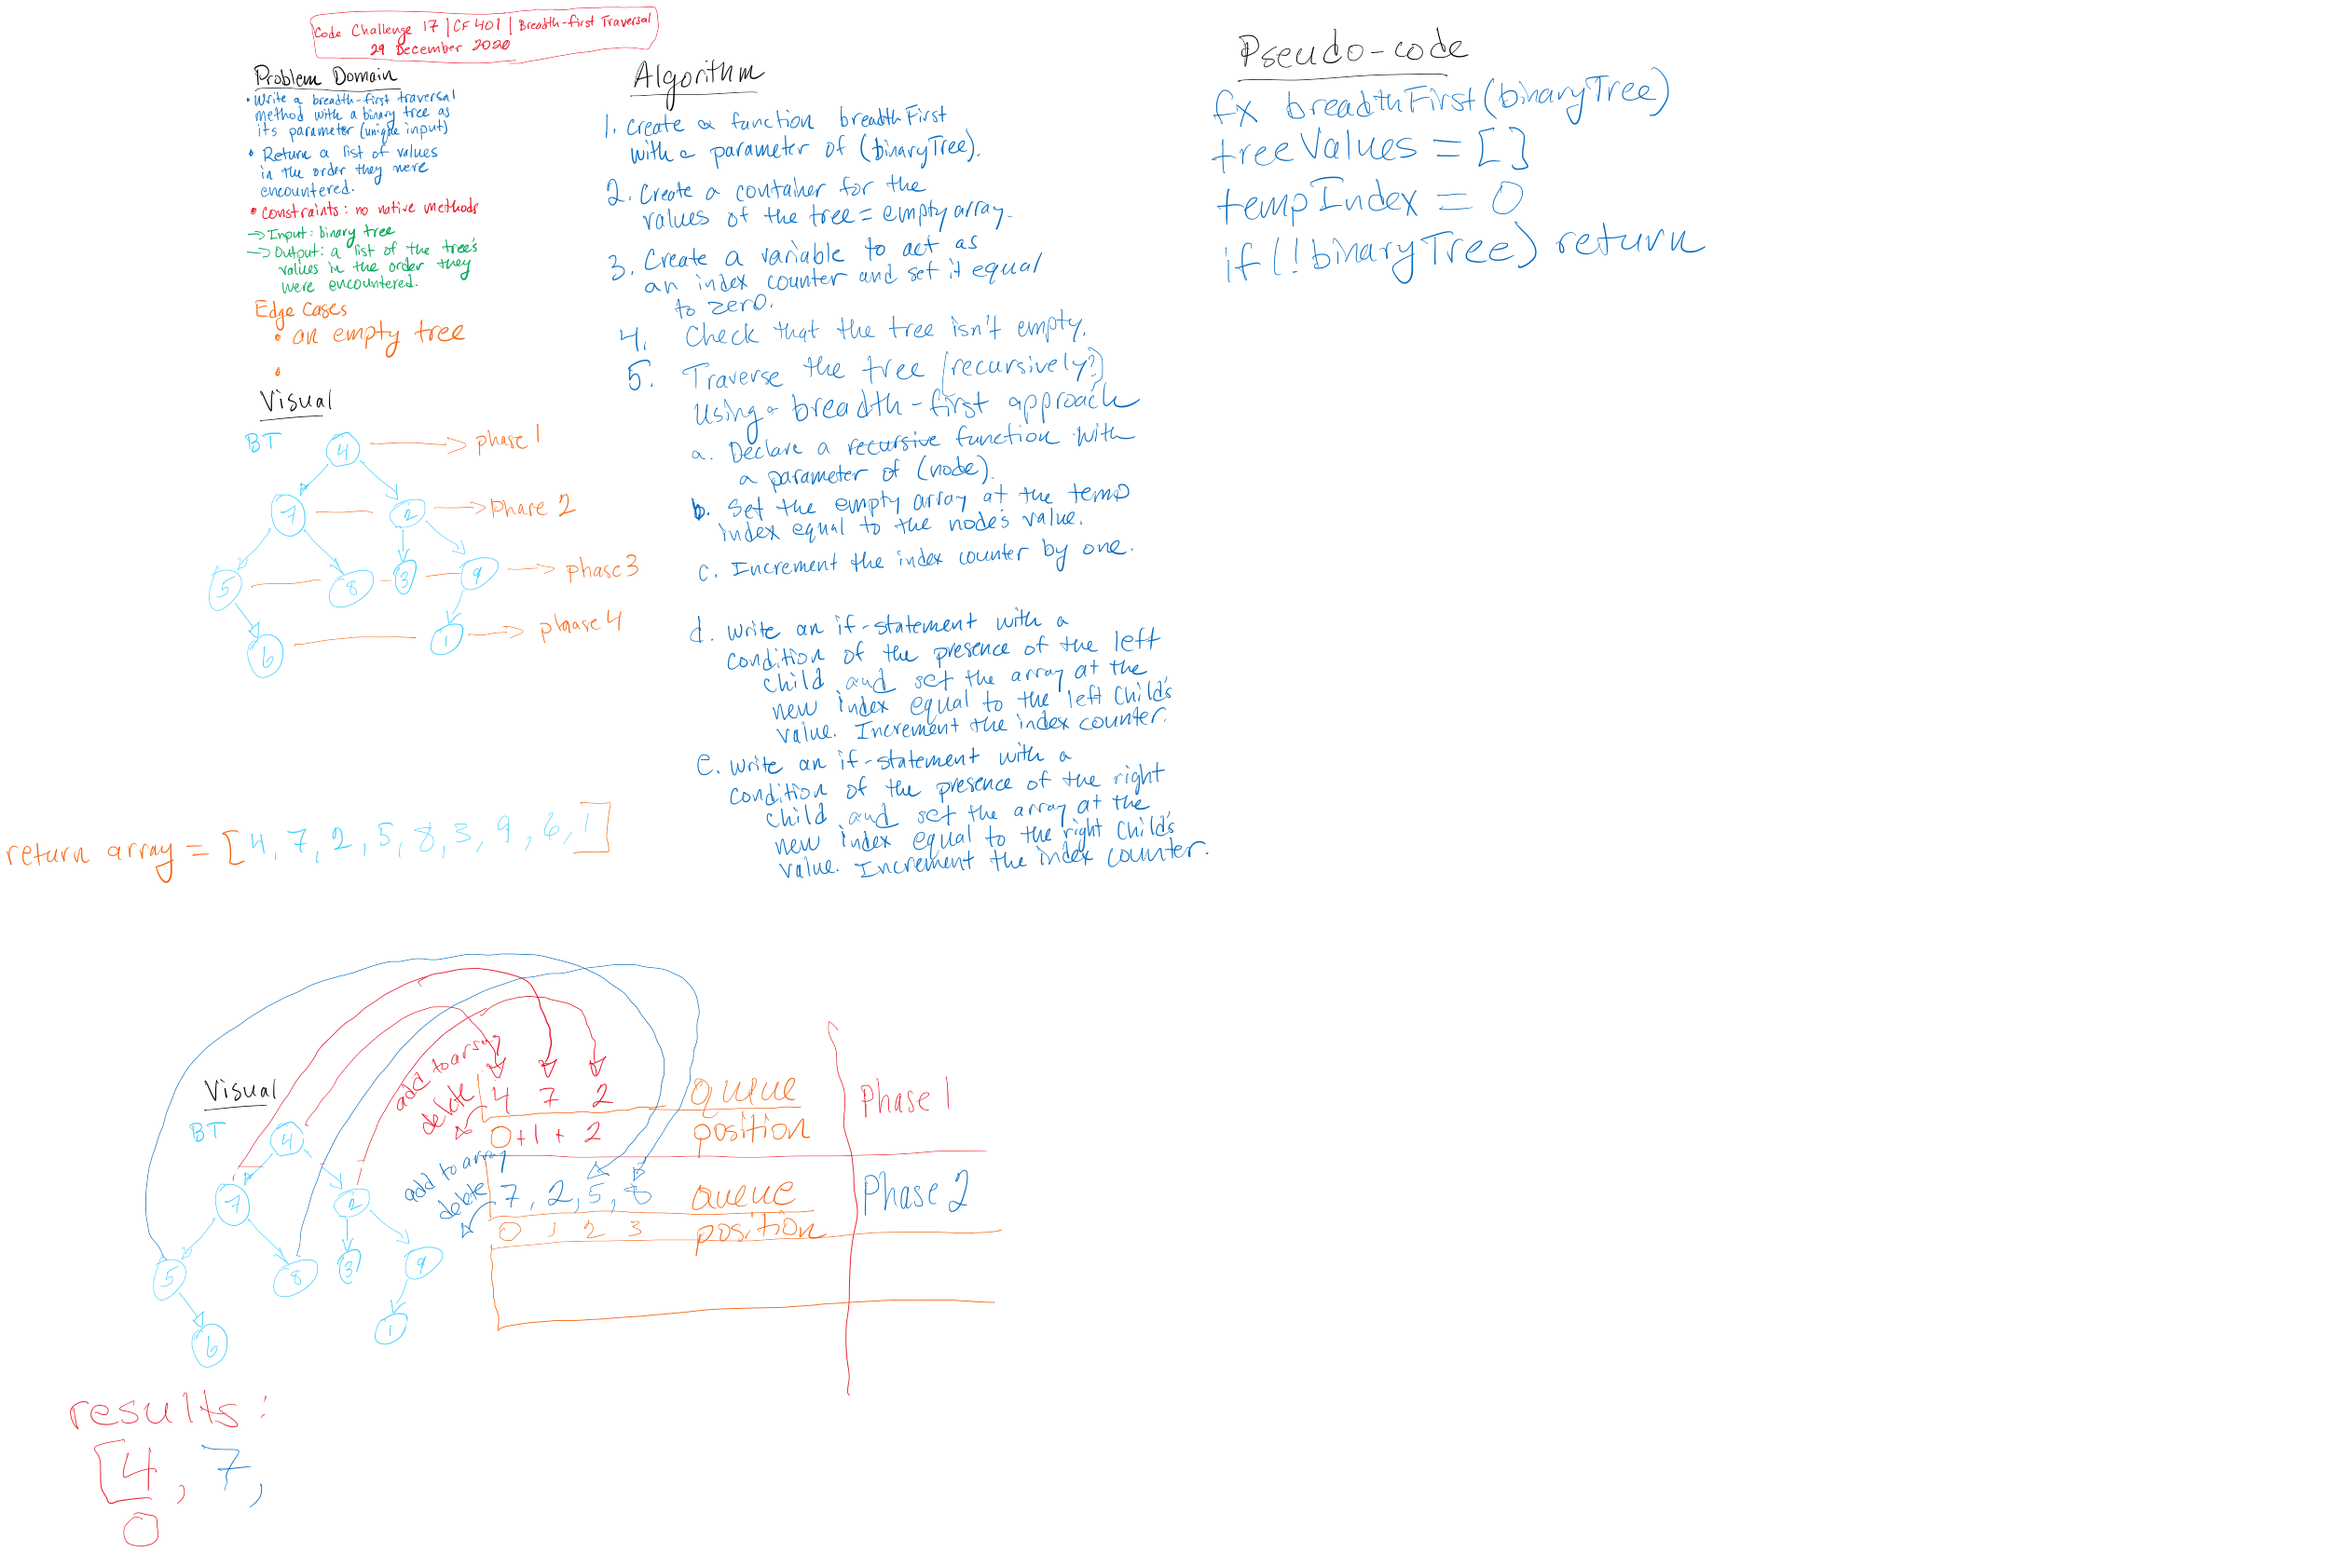
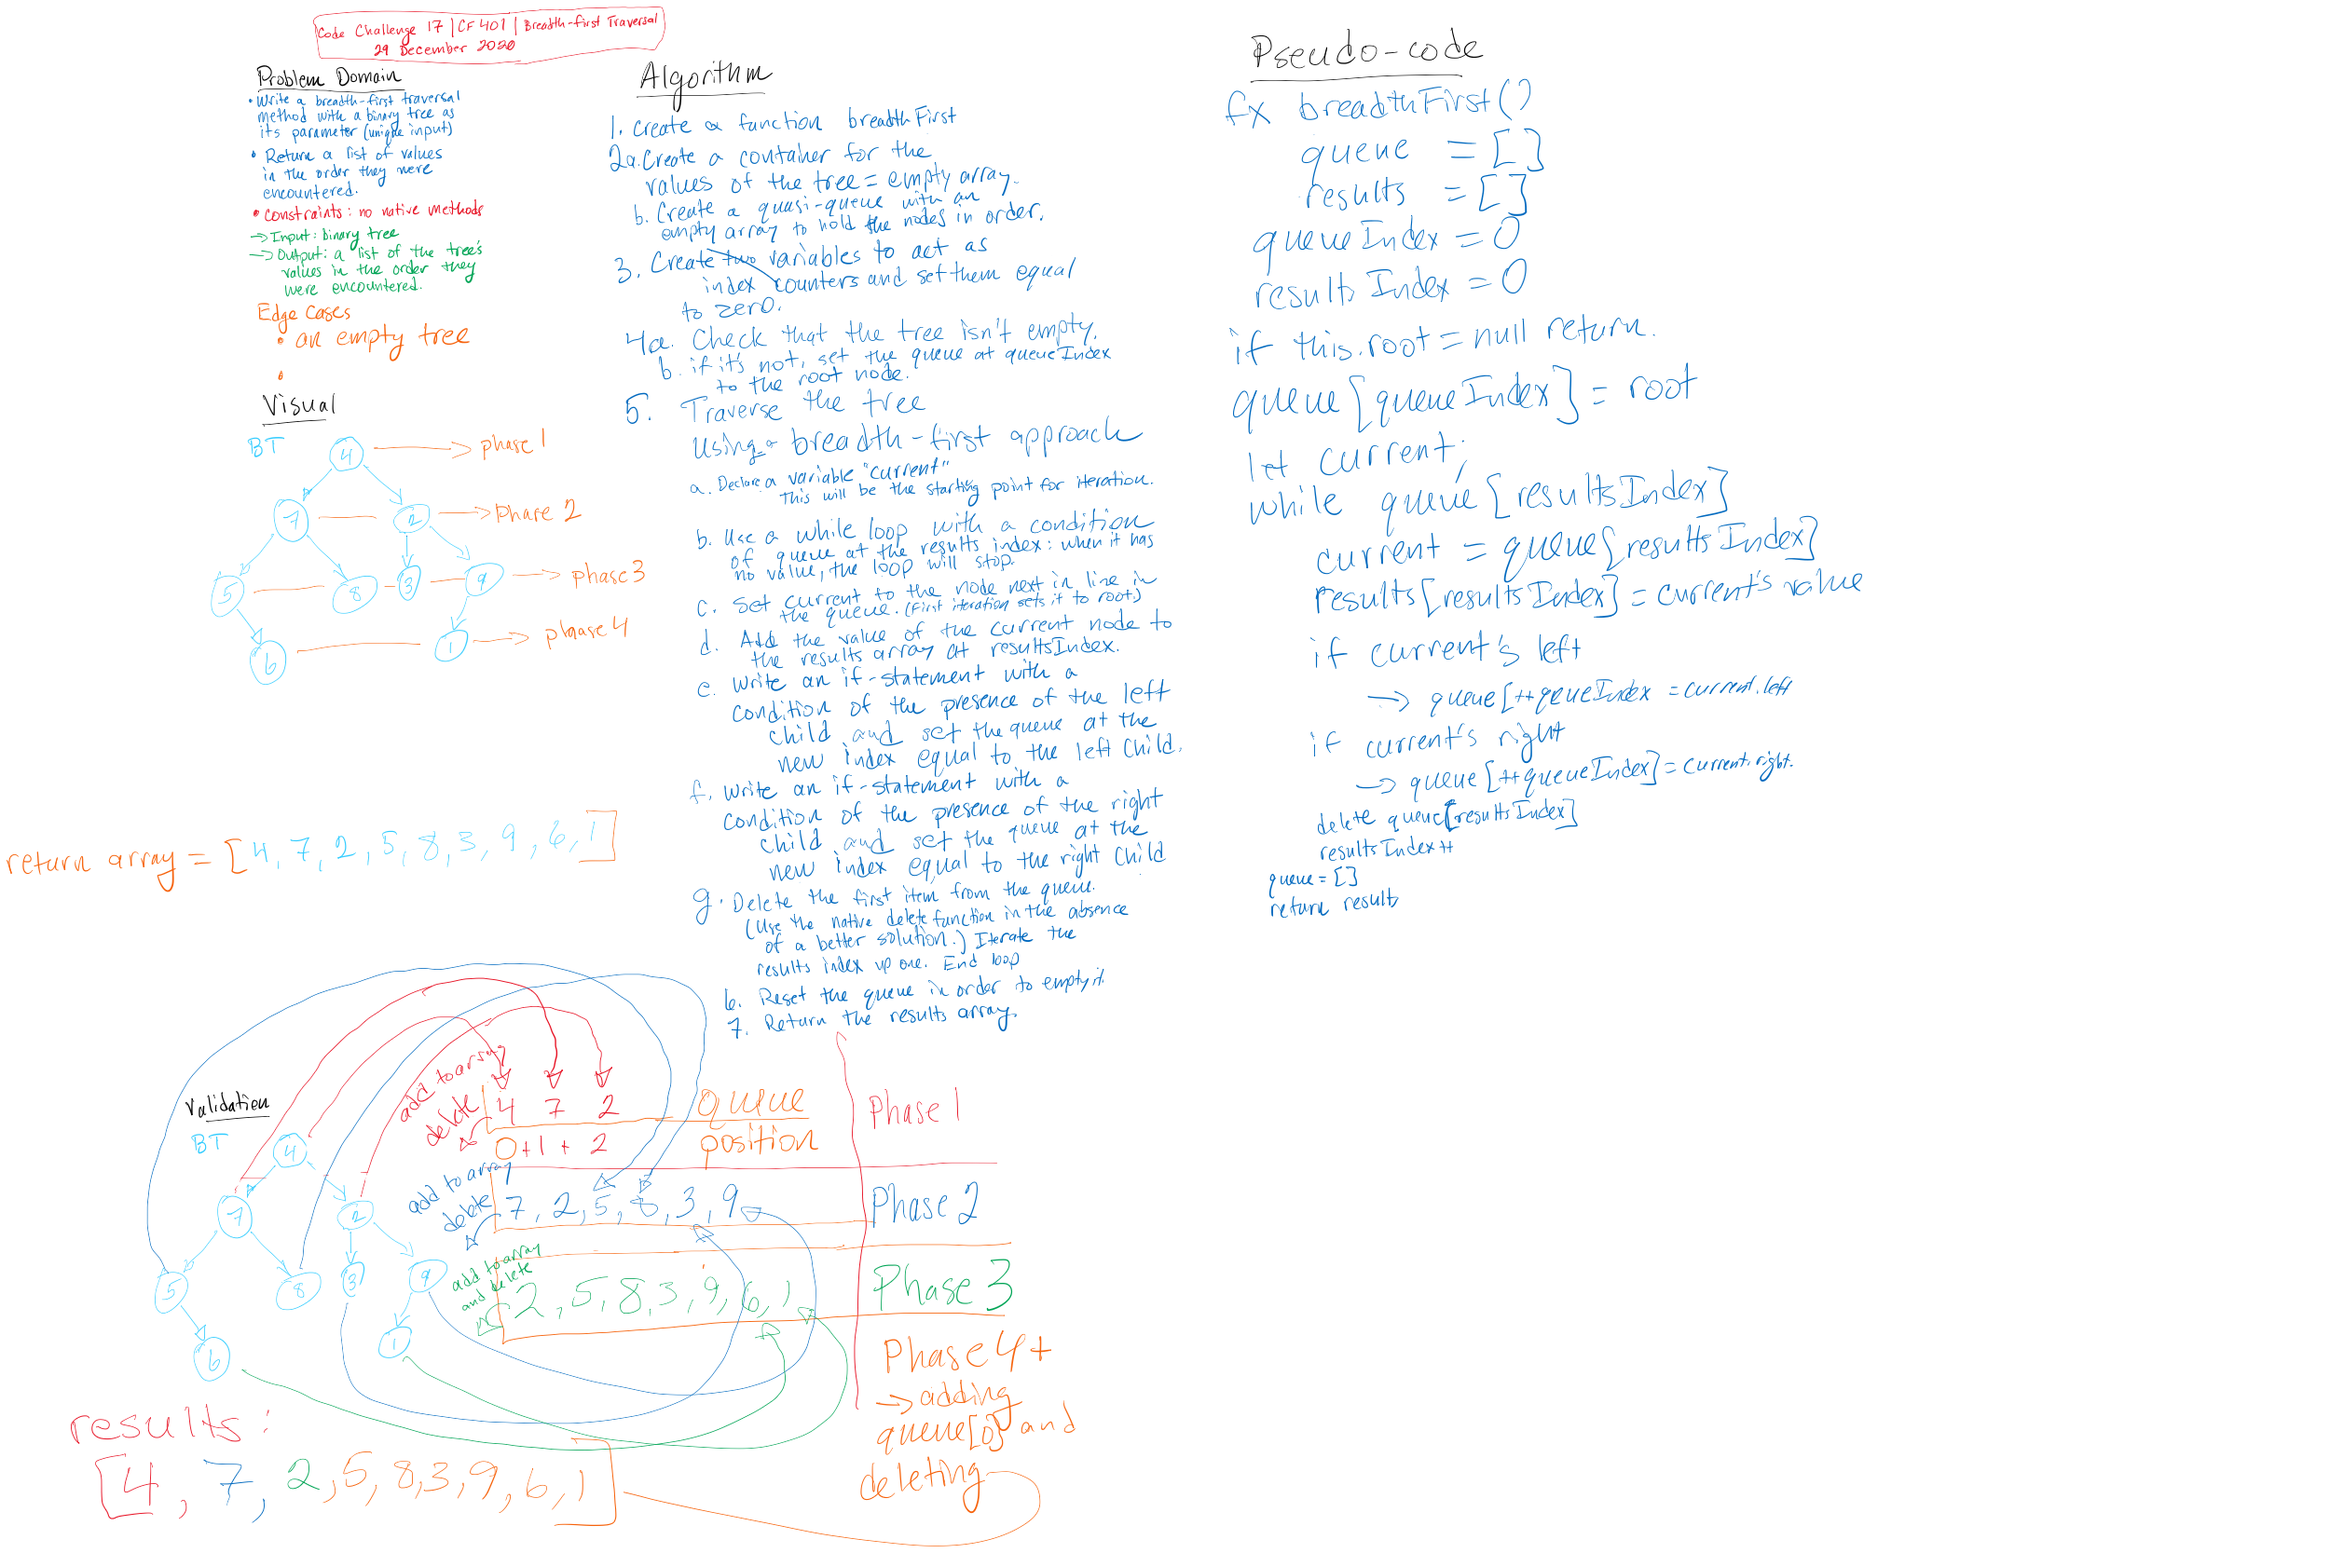
Add completed whiteboard for lab 17.

diff --git a/javascript/code-challenges/tree/tree.js b/javascript/code-challenges/tree/tree.js
@@ -118,9 +118,12 @@ class BinaryTree {
     let resultsIndex = 0;
 
     if(!this.root) return;
+    // Put the root node at the front of the queue array. This also starts the while loop.
     queue[queueIndex] = this.root;
     
-    let current = this.root;
+    let current;
+
+    // When the tree runs out, the resultsIndex will iterate one more time and the queue[resultsIndex] will have no value.
     while( queue[resultsIndex] ) {
       current = queue[resultsIndex];
       results[resultsIndex] = current.value;
@@ -132,6 +135,7 @@ class BinaryTree {
       resultsIndex++;
     };
     queue = [];
+    console.log(results);
     return results;
   };
 // Any exceptions or errors that come from your code should be semantic, capturable errors. For example, rather than a default error thrown by your language, your code should raise/throw a custom, semantic error that describes what went wrong in calling the methods you wrote for this lab.
